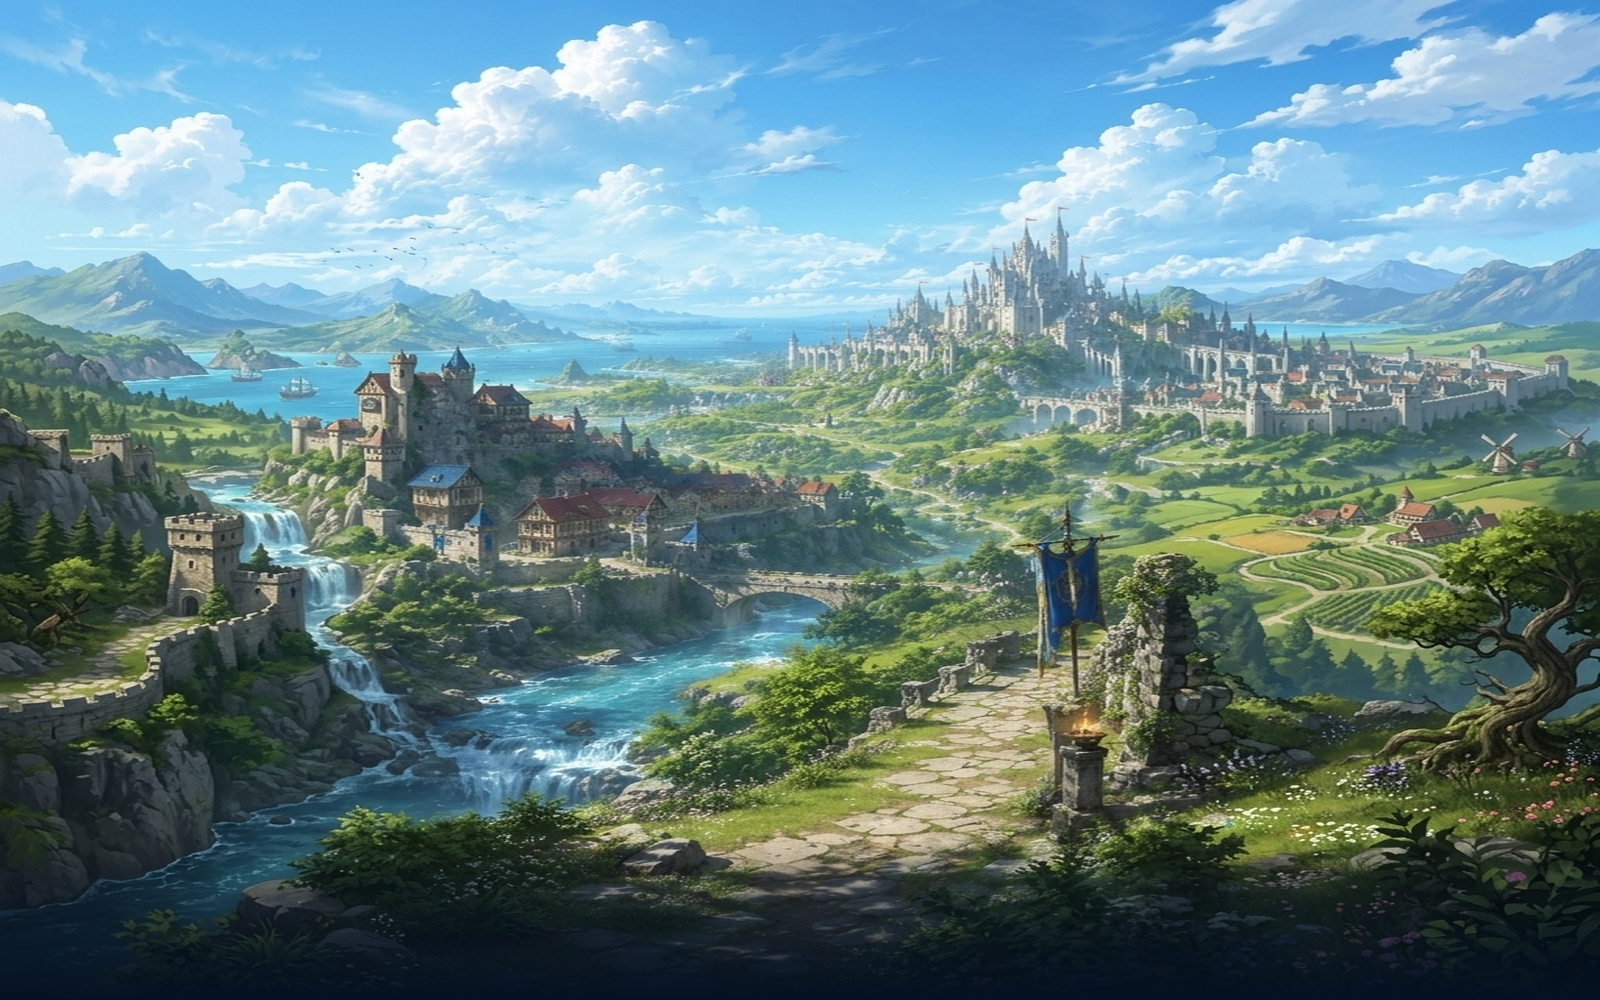
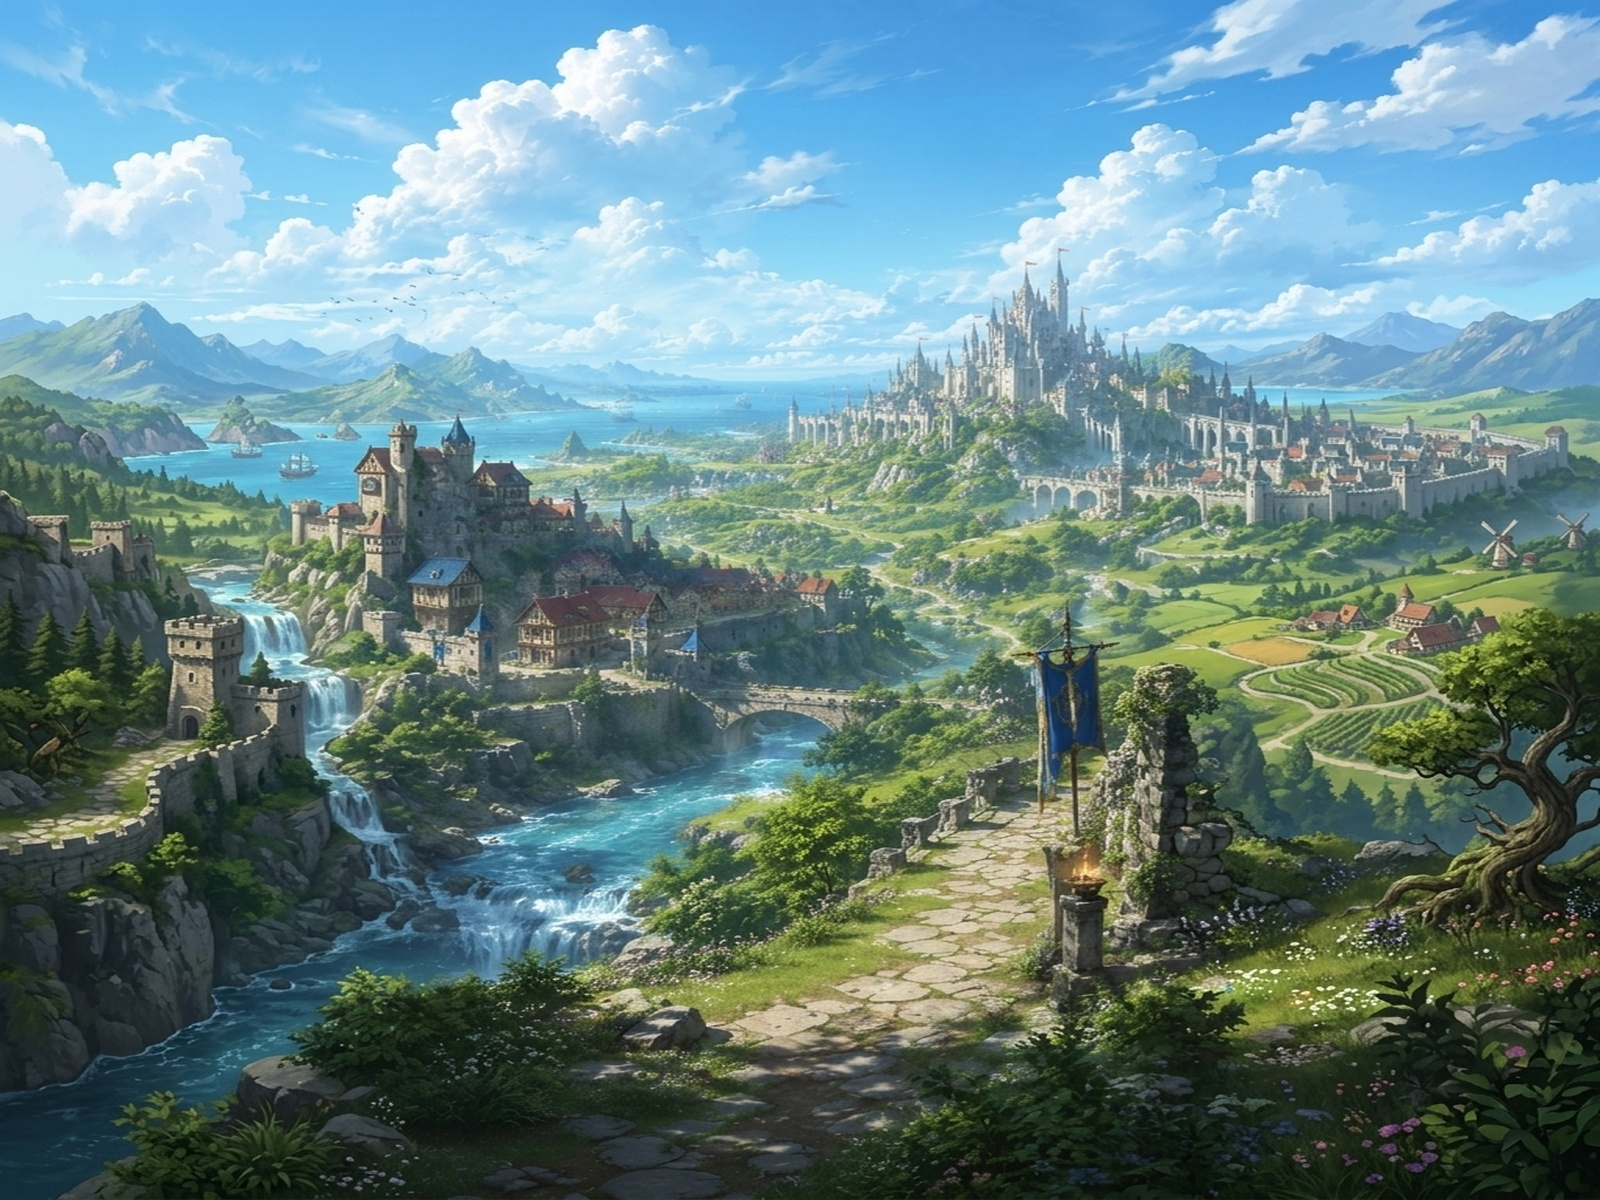
fix(web): fix full page scroll background cutoff by placing clean fixed cover artwork directly on html/body

diff --git a/docker/quickstart/myaac/templates/tibiacom/basic.css b/docker/quickstart/myaac/templates/tibiacom/basic.css
@@ -4,8 +4,13 @@
 html, body {
   margin: 0px;
   padding: 0px;
+  min-height: 100vh;
   background-color: #051122;
-  min-height: 100%;
+  background-image: url(images/header/background-artwork.gif);
+  background-position: center top;
+  background-attachment: fixed;
+  background-repeat: no-repeat;
+  background-size: cover;
 }
 
 img {
@@ -14,10 +19,6 @@ img {
 
 #ArtworkHelper {
   text-align: center;
-  background-position: top center;
-  background-attachment: fixed;
-  background-repeat: no-repeat;
-  background-size: cover;
   width: 100%;
   min-height: 100vh;
   min-width: 1000px;